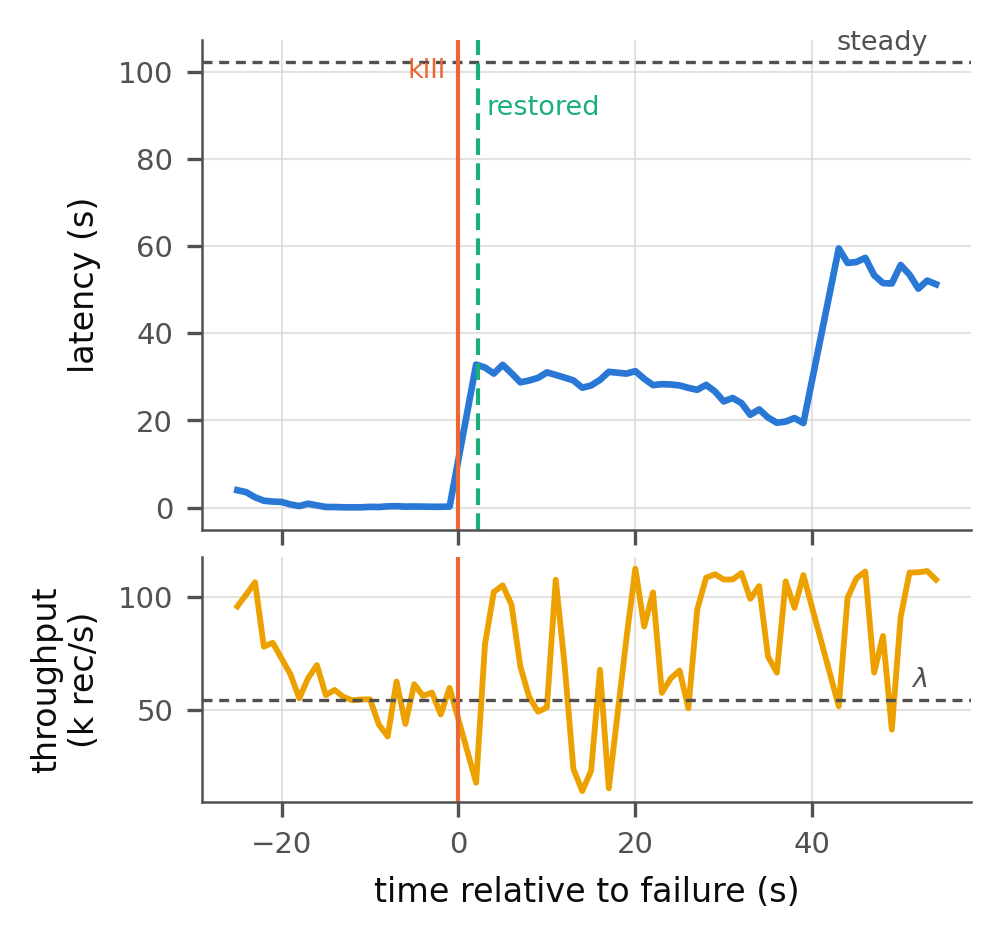
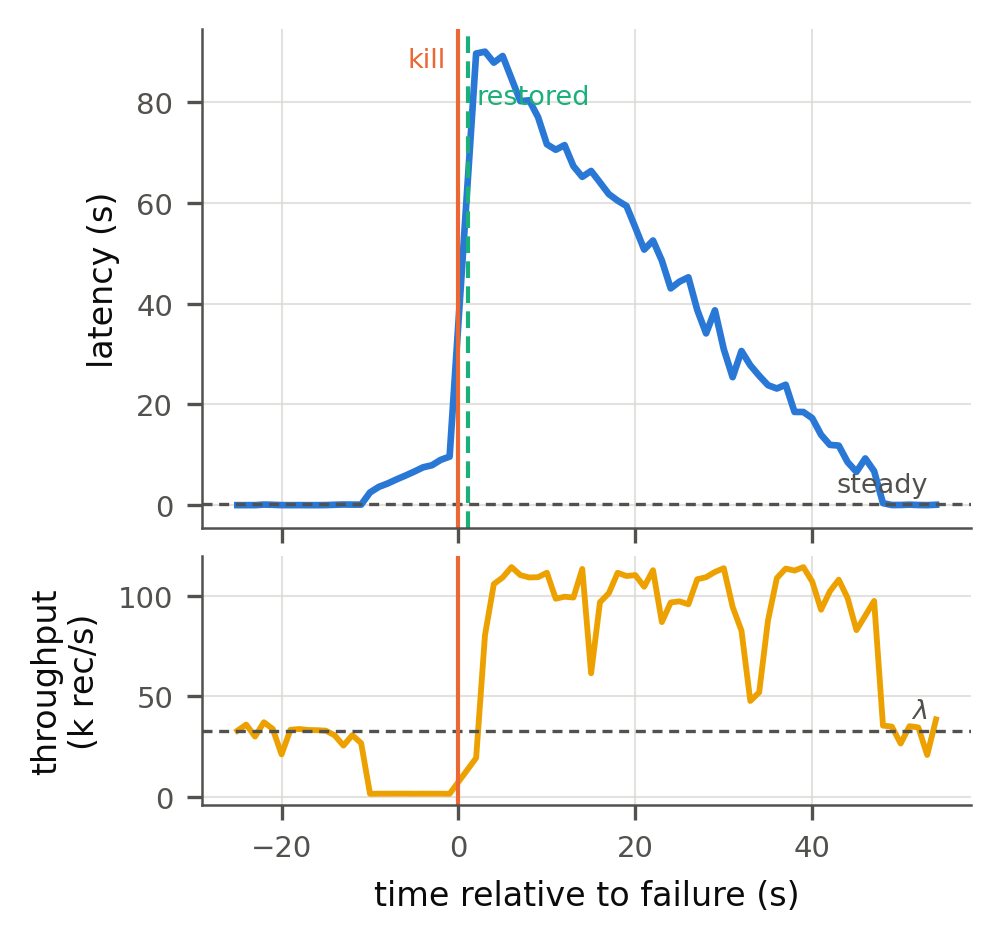
2026-09-13_Figure2-복구실패-run에서-그려진-것-발견하고-재생성
Figure 2가 논문의 주장과 정반대인 그림이었음.

기존 그림은 m10_p1024_k200k_s32000_r50_c32_m55_0에서 그려졌는데 그 run은
steady_lat=102s, D_eff=98s로 복구에 실패한 run이었다. 실제 궤적은 33s에서
정체하다 40s에 60s로 재상승하고 steady 기준선이 화면 밖(102s)에 있다.
캡션은 "backlog가 빠지면서 지연이 삼각형으로 감소한다"고 말하는데 그림은
그것을 보여주지 않았음. m10은 13런 중 0런이 사용 가능이었던 스윕.

원인: plot.py가 "장애 3회 이상 + tau in {16,32}s"에 맞는 첫 run을 집는데
품질 조건이 없고, 문자열 정렬에서 m10이 m2보다 앞서 걸림.

pick_trace_run()을 추가해 과부하/불안정/포화 제외, mu_d>lambda,
D_eff<=12s, 배수가 플롯 창 안에서 완료되는 조건으로 고르게 함.
선택된 것은 m9_p1024_k200k_s32000_r30_c80_m55_0의 4번 에피소드.
새 그림은 89s에서 0으로 삼각형 감소하고, 아래 패널에서 처리량이 catch-up 중
도착률의 약 3배로 올랐다가 backlog가 다 빠지면 lambda로 돌아오는 것까지
보임 - mu_d-lambda로 배수된다는 모델 메커니즘이 그대로 드러남.
캡션(영문/한글)에 그 사실과 run 조건을 추가.

Figure 3 자릿수 정정: "four orders of magnitude / 네 자릿수(10^0-10^4)"는
틀렸음. fig3_episodes.csv의 in_figure3=1인 218개는 0.83-712 M record*s로
약 2.9 자릿수. 전체 420개면 4.5 자릿수지만 그림에 찍히는 것은 218개.
영문 v1/v2와 한글 모두 "약 세 자릿수(0.8-712 M record*s)"로 수정.

R2=0.996, 기울기 1.107, 218 에피소드(31/168/19), 중앙 비율 1.21x는 전부
원자료와 일치하며 변경 없음.

diff --git a/ICNGC_2차논문/plot.py b/ICNGC_2차논문/plot.py
@@ -382,14 +382,61 @@ def pick_ref(fits):
     return best
 
 
+def pick_trace_run(rows):
+    """Which run Figure 0 should draw, and which episode of it.
+
+    This figure is the picture of the mechanism the model abstracts, so the
+    episode it shows has to be one that actually recovered.  Taking the first
+    run in list order used to pick an m10 run whose steady level was 102 s and
+    whose effective outage was 98 s -- a run that never recovered -- purely
+    because the string "m10" sorts ahead of "m2".  The trajectory in that
+    figure never came down, which is the opposite of what the caption claims.
+
+    Select on the properties the figure has to show instead:
+      * the run recovered   (not overloaded, steady level in the normal range)
+      * the interval is above the saturation threshold
+      * catch-up is faster than arrival, so a triangle exists at all
+      * the drain finishes inside the plotted window
+      * among those, the largest peak, because the mechanism is easiest to see
+    """
+    import analyze as A
+    best = None
+    for r in rows:
+        if (r.get("n_failures") or 0) < 3 or r.get("overloaded"):
+            continue
+        d = (r.get("ckpt_dur_ms") or 0) / 1000.0
+        tau, st = r.get("ckpt_gap_s"), r.get("steady_lat_ms")
+        lam, mud = r.get("lambda_meas"), r.get("mu_drain")
+        if not (d and tau and st == st and lam and mud) or mud <= lam:
+            continue
+        if st > 5000 or tau < 2.0 * d:          # never settled, or saturated
+            continue
+        try:
+            eps = [e for e in A.analyze_run(r["run_id"])["episodes"]
+                   if not e.get("overlapped") and not e.get("truncated")]
+        except Exception:
+            continue
+        for i, e in enumerate(eps):
+            pk = (e.get("peak_lat_ms") or 0) / 1000.0
+            de = e.get("D_eff_s")
+            if not pk or de is None or de < 0 or de > 12:
+                continue
+            drain = lam * pk / (mud - lam)      # must finish inside +55 s
+            if pk < 6 or drain > 45:
+                continue
+            if best is None or pk > best[0]:
+                best = (pk, r["run_id"], i)
+    return (best[1], best[2]) if best else None
+
+
 def main():
     rows = json.load(open(os.path.join(RES, "summary.json")))
     fits = json.load(open(os.path.join(RES, "fits.json")))
     mu_tab = load_mu()
-    for r in rows:
-        if r.get("n_failures", 0) >= 3 and r["ckpt_ms"] in (16000, 32000):
-            fig0_trace(r["run_id"])
-            break
+    tr = pick_trace_run(rows)
+    if tr:
+        print("  fig0_trace: %s (episode %d)" % tr)
+        fig0_trace(*tr)
     fig1_latency_vs_tau(fits, rows)
     fig2_scaling(fits, rows)
     fig3_area_validation(rows, mu_tab, fits)

diff --git a/LONG_Paper/paper_EN.md b/LONG_Paper/paper_EN.md
@@ -200,8 +200,10 @@ therefore approximately **triangular**, as illustrated in Figure 2.
 
 ![Figure 2](figs/fig0_trace.png)
 
-**Fig. 2.** Representative recovery episode. Excess record latency recedes as the replay
-backlog is drained.
+**Fig. 2.** A representative recovery episode (200k keys, ρ = 0.30, τ = 89 s). Excess record
+latency recedes as the replay backlog is drained. The lower panel shows the mechanism
+directly: throughput rises to roughly three times the arrival rate during catch-up and
+returns to λ once the backlog has been cleared, so the backlog recedes at μ_d − λ.
 
 Because records are served at approximately μ_d during catch-up, the accumulated
 record-weighted excess latency is
@@ -342,8 +344,8 @@ a slope of 1.092.
 
 Figure 3 aggregates 218 usable episodes across three state sizes: 31 episodes at 100k keys,
 168 at 200k, and 19 at 400k. The measured excess-latency area is approximately 1.21× the
-geometric estimate in the median, and the association persists across roughly four orders of
-magnitude. The proposed geometry thus captures the dominant recovery-cost structure, while
+geometric estimate in the median, and the association persists across about three orders of
+magnitude (0.8–712 M record·s). The proposed geometry thus captures the dominant recovery-cost structure, while
 systematically underestimating its magnitude by approximately 20%.
 
 <!-- ▣ FIGURE 3 배치: 여기(IV.B 끝). 논문에서 가장 중요한 그림 — 1단 폭, [t],

diff --git a/LONG_Paper/paper_EN_v1.md b/LONG_Paper/paper_EN_v1.md
@@ -293,7 +293,7 @@ with a slope of **1.107**. Over 61 episodes in the 200k-key, ρ ≈ 0.30 conditi
 Figure 3 pools all **218** usable episodes across three state sizes (100k: 31, 200k: 168,
 400k: 19), a broader population than the two conditions above. Over this full set the
 measurement aligns at about **1.2×** the geometric estimate, and the relation holds
-across four decades (10⁰–10⁴ M record·s). The geometric expression thus reproduces the
+across about three decades (0.8–712 M record·s). The geometric expression thus reproduces the
 structure of the cost while carrying a **systematic deviation that underestimates its
 magnitude by roughly 20%**.
 
@@ -309,7 +309,7 @@ geometric value computed from only λ, μ_d and the peak latency measured at eac
 (x) against the measured excess latency area of the same episode (y). No parameters are
 fitted. The plot contains 218 episodes across three state sizes; the solid line is the
 median ratio of measurement to estimate (×1.21) and the dashed line is y = x. The
-quadratic backlog-drain relation holds across four decades of episodes.
+quadratic backlog-drain relation holds across about three decades of episode cost.
 
 **2) The two costs of a checkpoint, and δ.** The cost computed from the processing
 capacity lost during a checkpoint was about 0.15–0.22 s, whereas the latency-equivalent
